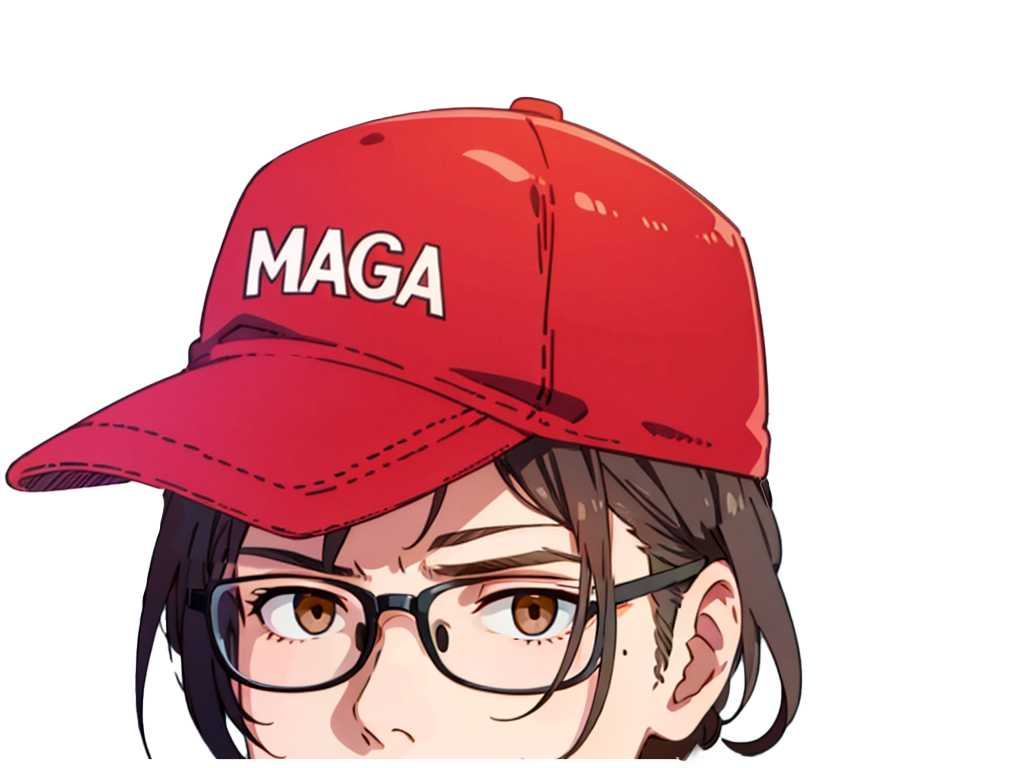
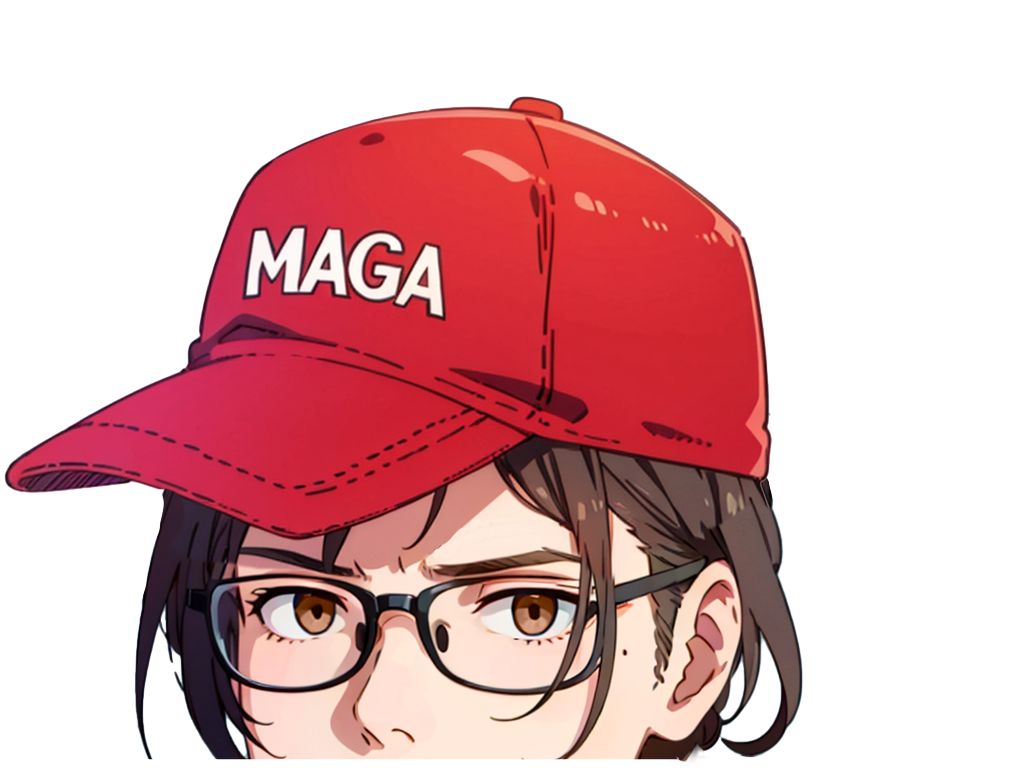
add half closed eyes step in the blinking animation

Changed region(s): [[0.4062, 0.6875, 0.5, 0.7188], [0.6562, 0.9688, 0.6875, 1.0], [0.5, 0.6562, 0.5312, 0.6875]]

diff --git a/lib/ui/widgets/avatar/blinking_eyes.dart b/lib/ui/widgets/avatar/blinking_eyes.dart
@@ -18,7 +18,7 @@ class BlinkingEyes extends StatefulWidget {
 class _BlinkingEyesState extends State<BlinkingEyes>
     with TickerProviderStateMixin {
   late Timer _timer;
-  bool _eyesClosed = false;
+  String _eyeState = 'open';
 
   @override
   void initState() {
@@ -31,11 +31,19 @@ class _BlinkingEyesState extends State<BlinkingEyes>
 
   void _blinkEyes() async {
     setState(() {
-      _eyesClosed = true;
+      _eyeState = 'half_closed';
+    });
+    await Future<dynamic>.delayed(const Duration(milliseconds: 25));
+    setState(() {
+      _eyeState = 'closed';
     });
     await Future<dynamic>.delayed(const Duration(milliseconds: 100));
     setState(() {
-      _eyesClosed = false;
+      _eyeState = 'half_closed';
+    });
+    await Future<dynamic>.delayed(const Duration(milliseconds: 25));
+    setState(() {
+      _eyeState = 'open';
     });
   }
 
@@ -47,11 +55,21 @@ class _BlinkingEyesState extends State<BlinkingEyes>
 
   @override
   Widget build(BuildContext context) {
-    return ScaledAvatarItem(
-      path: AppUtils.fixAssetsPath('assets/avatar/closed_eyes.png'),
-      itemX: AppConstants.eyesX,
-      itemY: AppConstants.eyesY,
-      display: _eyesClosed,
+    return Stack(
+      children: <Widget>[
+        ScaledAvatarItem(
+          path: AppUtils.fixAssetsPath('assets/avatar/half_closed_eyes.png'),
+          itemX: AppConstants.eyesX,
+          itemY: AppConstants.eyesY,
+          display: _eyeState == 'half_closed',
+        ),
+        ScaledAvatarItem(
+          path: AppUtils.fixAssetsPath('assets/avatar/closed_eyes.png'),
+          itemX: AppConstants.eyesX,
+          itemY: AppConstants.eyesY,
+          display: _eyeState == 'closed',
+        ),
+      ],
     );
   }
 }
